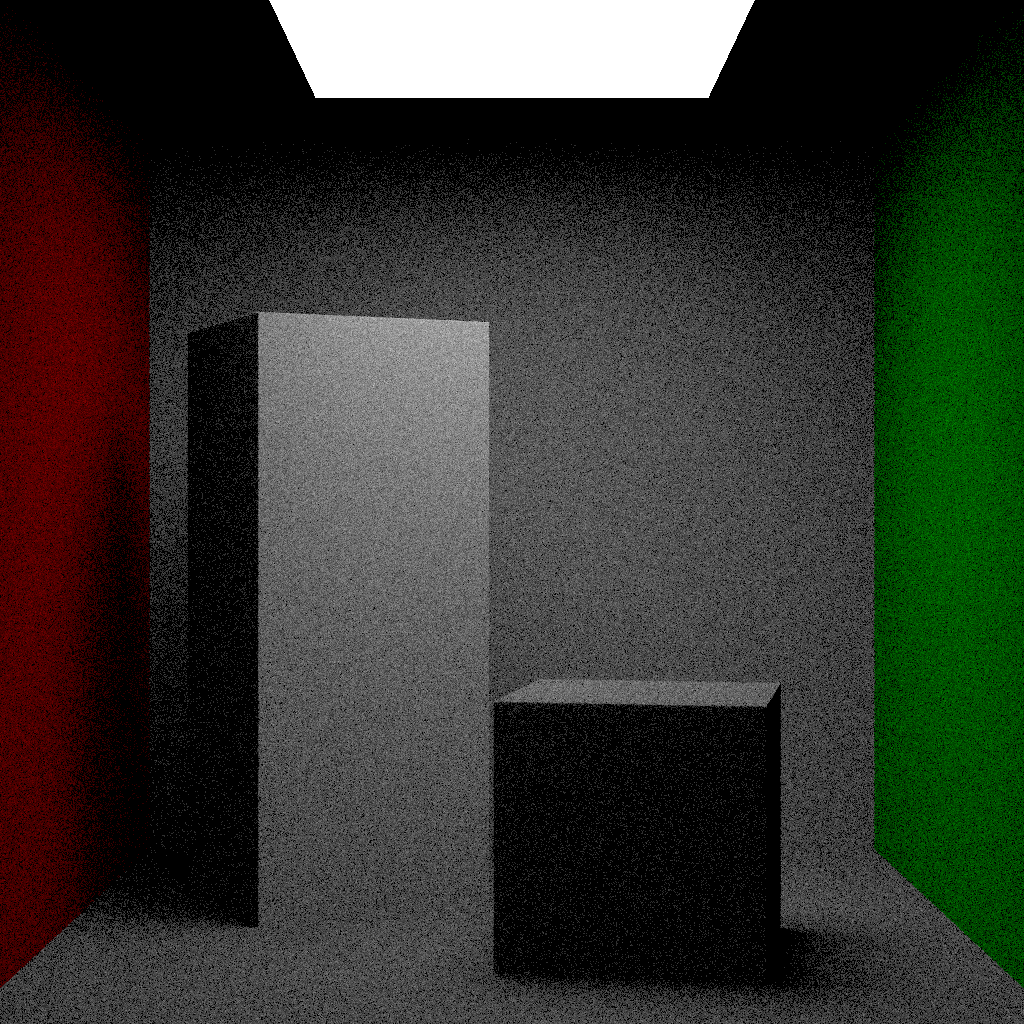
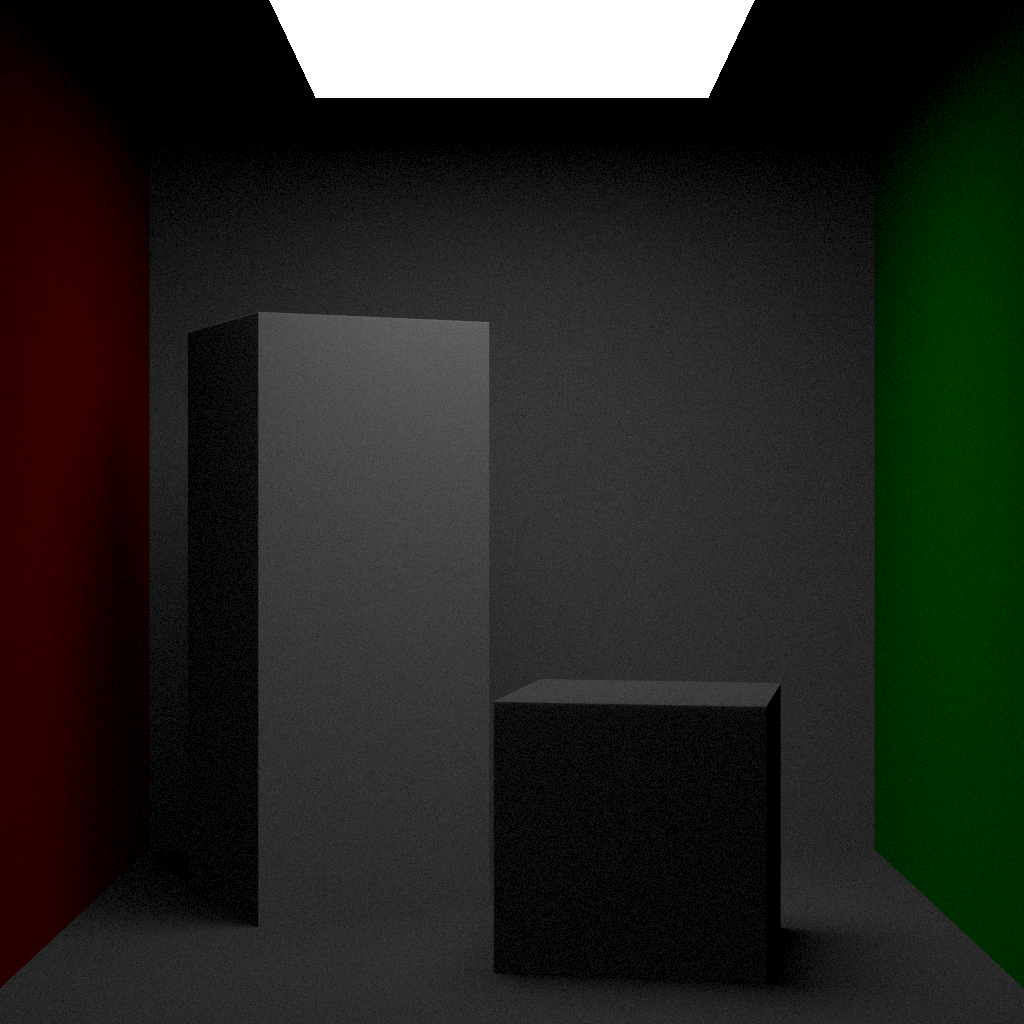
Added many images and modified the cosine code - sntc

diff --git a/light.cpp b/light.cpp
@@ -79,7 +79,7 @@ std::pair<Vector3f, LightSample> Light::sample(Interaction *si) {
                 // float theta = M_PI / 2 * next_float();
                 // float phi   = 2 * M_PI * next_float();
 
-                float theta = std::acos(std::sqrt(1 - next_float()));
+                float theta = std::acos(std::sqrt(next_float()));
                 float phi = 2 * M_PI * next_float();
 
                 ls.wo = Normalize(Vector3f(std::sin(theta) * std::cos(phi), std::sin(theta) * std::sin(phi), std::cos(theta)));
@@ -109,14 +109,16 @@ std::pair<Vector3f, LightSample> Light::sample(Interaction *si) {
 }
 
 double Light::PDF(int sampling_method){
-    if(sampling_method == UniformHemisphereSampling){
-        return (1 / (2 * M_PI));
-    }
-    else if(sampling_method == CosineWeightedSampling){
-        return M_PI;
-    }
-    else if(sampling_method == LightSampling){
-        return 1 / (4 * this->vx.Length() * this->vy.Length());
+    if(this->type == AREA_LIGHT){
+        if(sampling_method == UniformHemisphereSampling){
+            return (1 / (2 * M_PI));
+        }
+        else if(sampling_method == CosineWeightedSampling){
+            return 1;   // PI added directly in the rendering equation.
+        }
+        else if(sampling_method == LightSampling){
+            return 1 / (4 * this->vx.Length() * this->vy.Length());
+        }
     }
 
     // To handle non-accepted sampling_method

diff --git a/render.cpp b/render.cpp
@@ -64,7 +64,7 @@ long long Integrator::render()
                                         result += si.bsdf->eval(&si, si.toLocal(ls.wo)) * siLR.emissiveColor * std::abs(Dot(si.n, ls.wo));
                                     }
                                     else if(sampling_method == CosineWeightedSampling){
-                                        result += si.bsdf->eval(&si, si.toLocal(ls.wo)) * siLR.emissiveColor;
+                                        result += si.bsdf->eval(&si, si.toLocal(ls.wo)) * siLR.emissiveColor * M_PI;
                                     } 
                                     else if(sampling_method == LightSampling){
                                         result += si.bsdf->eval(&si, si.toLocal(ls.wo)) * siLR.emissiveColor * std::abs(Dot(si.n, ls.wo)) * std::abs(Dot(Normalize(light.normal), -ls.wo)) / (ls.d * ls.d);

diff --git a/output_scenes/report.md b/output_scenes/report.md
@@ -36,3 +36,19 @@
 - Big:  `1530626.875000 ms`
 - Many:  `2251478.250000 ms`
 ### Method: `cosine_weighted_sampling` | SPP: `1000` | Anti-Aliasing: `On`
+
+## Report Questions
+
+### Question 1
+**Why can’t we render point and directional lights with uniform hemisphere sampling or cosine weighted sampling?**
+
+For both point and directional lights, the set of directions that would contribute to the final color and intensity of a pixel are definite and known.
+
+If we use uniform hemisphere sampling or cosine weighted sampling, we would be considering many directions that would not contribute to the the properties of the pixel being currently considered.
+
+This would take a much higher time (almost infinity) to converge than simply considering all the valid directions that the light can take. For point lights this would be the direction to the point light from the point of intersection and for directional lights, this would be the constant fixed direction.
+
+### Question 2
+**Why does the noise increase for the same number of samples in the case of uniform hemisphere and cosine weighted sampling as the size of the area light decreases?**
+
+The noise increases for the same number of samples in the case of uniform hemisphere and cosine sampling as a smaller number of rays hit the light when when the light's size is small. Consider a ray x. The ray had an associated direction `d`. In essense the number of directions that would intersect the light surface in the case of area light would be less.

diff --git a/output_scenes_2/report2.md b/output_scenes_2/report2.md
@@ -1,0 +1,39 @@
+# Report File
+## Question 3
+### Method: `cosine_weighted_sampling` | SPP: `10` | Anti-Aliasing: `On`
+- Small:  `47248.765625 ms`
+- Med:  `53625.921875 ms`
+- Big:  `123000.007812 ms`
+- Many:  `379606.812500 ms`
+### Method: `cosine_weighted_sampling` | SPP: `100` | Anti-Aliasing: `On`
+# Report File
+## Question 3
+### Method: `cosine_weighted_sampling` | SPP: `30` | Anti-Aliasing: `On`
+# Report File
+## Question 3
+### Method: `cosine_weighted_sampling` | SPP: `30` | Anti-Aliasing: `On`
+- Small:  `209759.281250 ms`
+# Report File
+## Question 3
+### Method: `cosine_weighted_sampling` | SPP: `30` | Anti-Aliasing: `On`
+- Small:  `216576.218750 ms`
+- Med:  `156014.890625 ms`
+# Report File
+## Question 3
+### Method: `cosine_weighted_sampling` | SPP: `30` | Anti-Aliasing: `On`
+- Small:  `111343.085938 ms`
+- Med:  `131289.656250 ms`
+- Big:  `204490.703125 ms`
+# Report File
+## Question 3
+### Method: `cosine_weighted_sampling` | SPP: `200` | Anti-Aliasing: `On`
+- Small:  `39630.152344 ms`
+- Med:  `46358.031250 ms`
+- Big:  `55007.292969 ms`
+- Many:  `117360.054688 ms`
+### Method: `light_sampling` | SPP: `1000` | Anti-Aliasing: `On`
+- Small:  `398668.968750 ms`
+- Med:  `406222.250000 ms`
+- Big:  `410246.843750 ms`
+- Many:  `1320913.250000 ms`
+- Small spp = 10000:  ``
